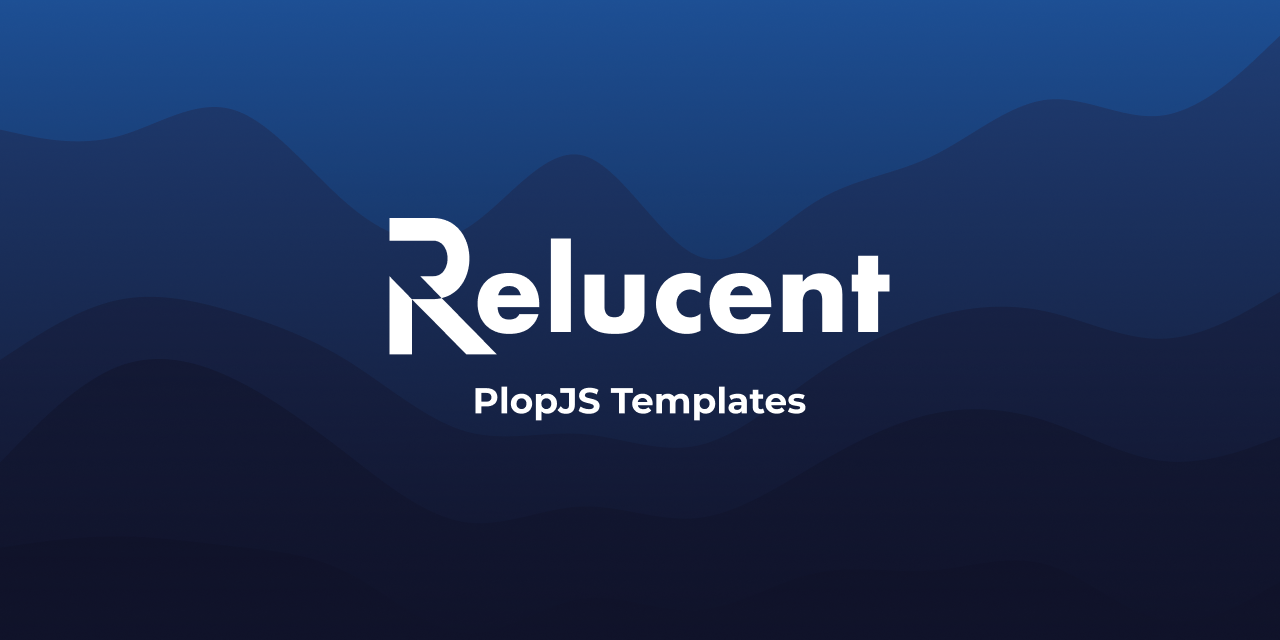
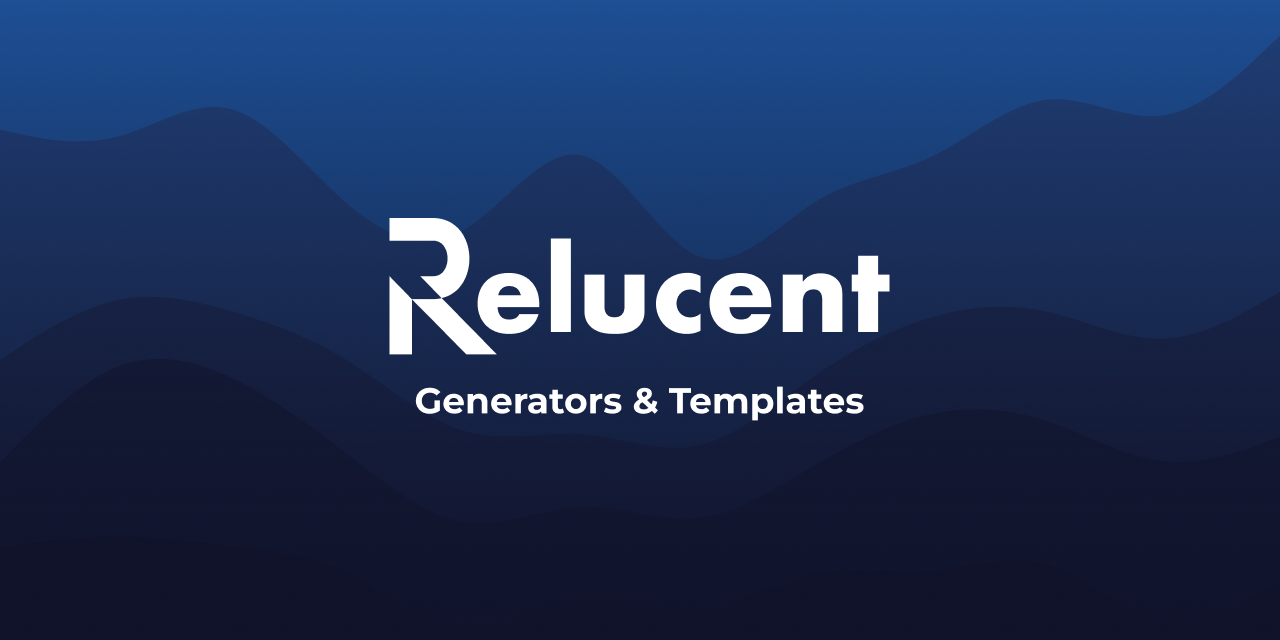
docs: add README for generators

Changed region(s): [[0.3125, 0.5938, 0.6875, 0.6562]]

diff --git a/packages/generators/README.md b/packages/generators/README.md
@@ -1,0 +1,26 @@
+# Relucent Generators
+
+![Relucent Generators Cover Image](cover.png)
+
+Shared generators for Relucent projects.
+
+[![@relucent.dev/generators version]][npmjs-package]
+
+[npmjs-package]: https://npmjs.com/@relucent.dev/generators
+[@relucent.dev/generators version]: https://img.shields.io/npm/v/%40relucent.dev/generators
+
+## Usage
+
+```bash
+# TODO
+```
+
+## License
+
+GNU LGPLv3 &copy; 2023 Relucent Ltd
+
+### Contact
+
+**Relucent Ltd**: <https://relucent.dev> <<hello@relucent.dev>>
+
+**Project Manager**: Dom Webber <https://domwebber.dev> <<dom.webber@hotmail.com>>
